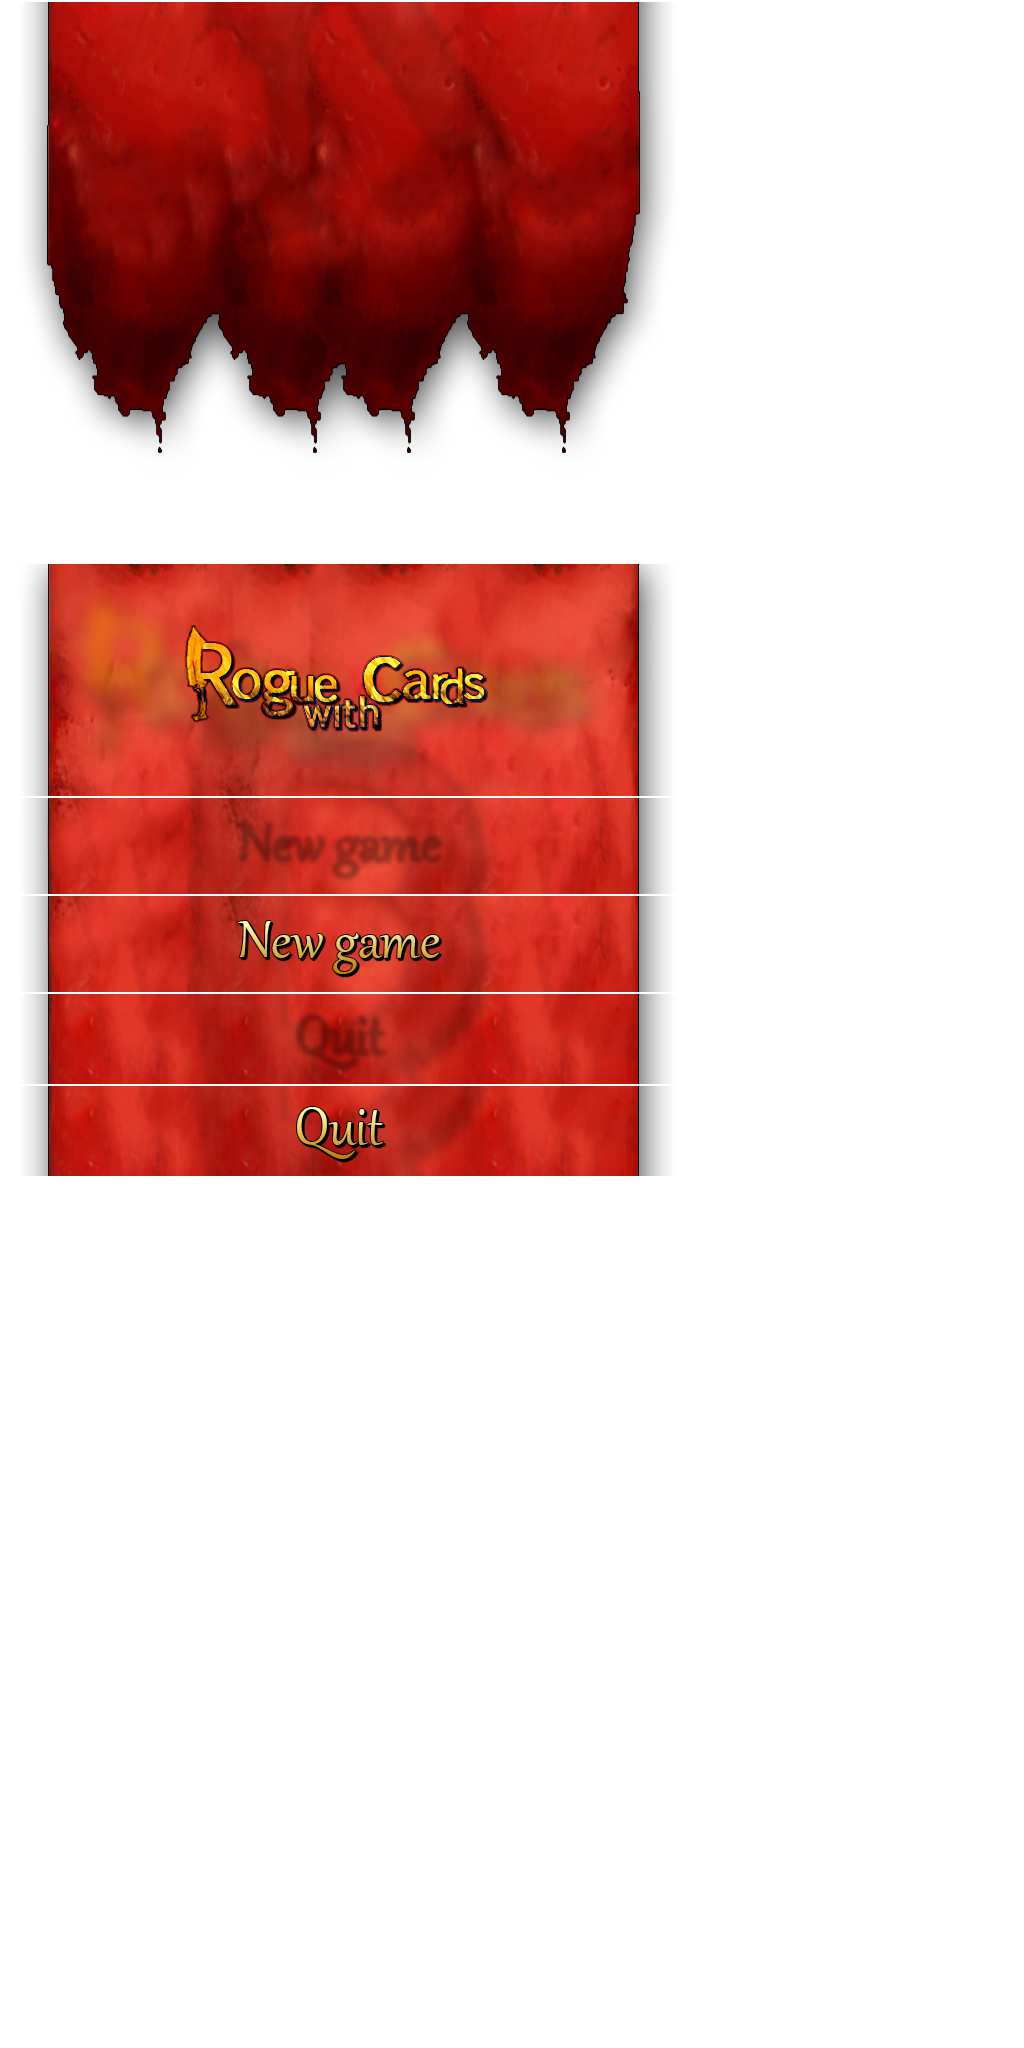
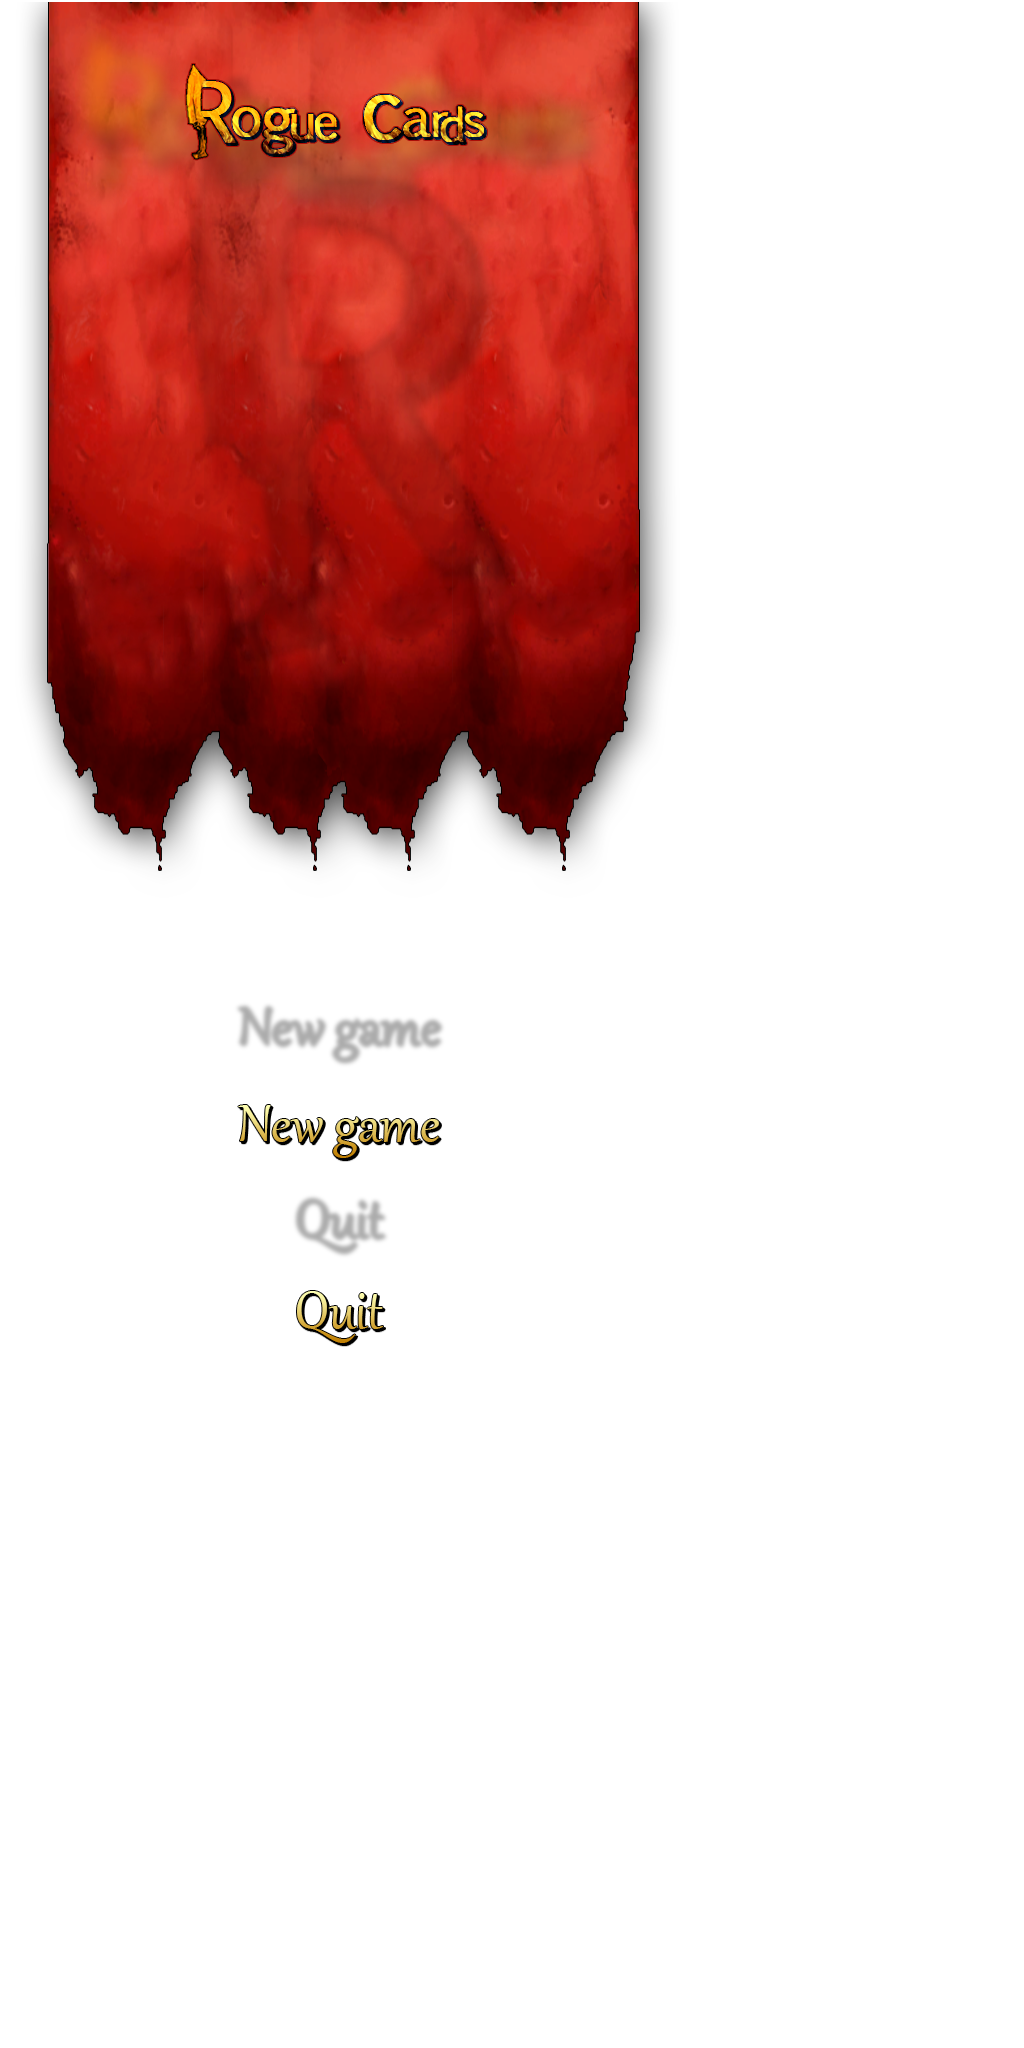
gui button and fade effect

diff --git a/MonoTopDown/Utils/MouseManager.cs b/MonoTopDown/Utils/MouseManager.cs
@@ -1,0 +1,62 @@
+using System;
+using System.Collections.Generic;
+using System.Diagnostics;
+using System.Linq;
+using System.Text;
+using Microsoft.Xna.Framework;
+using Microsoft.Xna.Framework.Input;
+
+namespace MonoTopDown.Utils
+{
+    [DebuggerDisplay("Mouse -> X:{Position.X}, Y:{Position.Y}")]
+    class MouseManager:GameComponent
+    {
+        public static MouseManager Instance { get; protected set; }
+
+        public MouseManager() : base(Program.Game)
+        {
+            Instance = this;
+            _previousState = default(MouseState);
+        }
+
+        private MouseState _current = default(MouseState);
+        private MouseState CurrentState {
+            get { return _current; }
+            set
+            {
+                Position = new Vector2(value.X, value.Y);
+                Delta = new Vector2(value.X - _previousState.X, value.Y - _previousState.Y);
+
+                IsLeftUp = value.LeftButton == ButtonState.Released 
+                    && _previousState.LeftButton == ButtonState.Pressed;
+                IsRightUp = value.RightButton == ButtonState.Released 
+                    && _previousState.RightButton == ButtonState.Pressed;
+
+                _current = value;
+            }
+        }
+        private MouseState _previousState;
+
+        public override void Update(GameTime gameTime)
+        {
+            base.Update(gameTime);
+
+            _previousState = CurrentState;
+            CurrentState = Mouse.GetState();
+        }
+
+        public static bool IsMouseInRectangle(Vector2 position, Vector2 size)
+        {
+            var mouse = Instance.Position;
+            return mouse.X >= position.X && mouse.Y >= position.Y &&
+                   mouse.X <= position.X + size.X && mouse.Y <= position.Y + size.Y;
+        }
+
+        public Vector2 Position { get; protected set; }
+        public Vector2 Delta { get; protected set; }
+        public bool IsLeftDown { get { return CurrentState.LeftButton == ButtonState.Pressed; } }
+        public bool IsRightDown { get { return CurrentState.RightButton == ButtonState.Pressed; } }
+        public bool IsLeftUp { get; protected set; }
+        public bool IsRightUp { get; protected set; }
+    }
+}

diff --git a/MonoTopDown/GUI/GuiButton.cs b/MonoTopDown/GUI/GuiButton.cs
@@ -1,0 +1,78 @@
+using System;
+using System.Collections.Generic;
+using System.Linq;
+using System.Text;
+using MonoTopDown.Images;
+
+namespace MonoTopDown.GUI
+{
+    class GuiButton: BaseGuiComponent
+    {
+        public DrawTexture HoverTexture { get; set; }
+        public bool FadeEffect { get; set; }
+
+        private float _fadeValue = 0;
+        private int _fadeDirection = 0;
+        private float FadeValue
+        {
+            set
+            {
+                if (value < 0) value = 0;
+                else if (value > 1) value = 1;
+                _fadeValue = value;
+            }
+            get { return _fadeValue; }
+        }
+
+        public GuiButton()
+        {
+            MouseIn += OnMouseIn;
+            MouseOut += OnMouseOut;
+
+            FadeEffect = true;
+            isActive = true;
+        }
+
+        private static void OnMouseOut(object sender, EventArgs args)
+        {
+            var self = sender as GuiButton;
+            if (self == null) return;
+
+            if (self.Texture != null)
+                self.TextureToDraw = self.Texture;
+
+            self._fadeDirection = -1;
+        }
+
+        private static void OnMouseIn(object sender, EventArgs args)
+        {
+            var self = sender as GuiButton;
+            if (self == null) return;
+
+            if (self.HoverTexture != null)
+                self.TextureToDraw = self.HoverTexture;
+
+            self._fadeDirection = 1;
+        }
+
+        public override void Draw(Microsoft.Xna.Framework.GameTime gameTime)
+        {
+            if (!FadeEffect)
+                base.Draw(gameTime);
+            else
+            {
+                if (Texture != null)
+                    Texture.Draw(TopDownGame.SpriteBatch, Position, Overlay * (1 - FadeValue), Layer);
+                if (HoverTexture != null)
+                    HoverTexture.Draw(TopDownGame.SpriteBatch, Position, Overlay * FadeValue, Layer);
+            }
+        }
+
+        public override void Update(Microsoft.Xna.Framework.GameTime gameTime)
+        {
+            base.Update(gameTime);
+
+            if (FadeEffect) FadeValue += 0.0475f * _fadeDirection;
+        }
+    }
+}

diff --git a/MonoTopDown/GUI/BaseGUIComponent.cs b/MonoTopDown/GUI/BaseGUIComponent.cs
@@ -4,16 +4,28 @@ using System.Linq;
 using System.Text;
 using Microsoft.Xna.Framework;
 using MonoTopDown.Images;
+using MonoTopDown.Utils;
 
 namespace MonoTopDown.GUI
 {
     class BaseGuiComponent:DrawableGameComponent
     {
         public DrawTexture Texture { get; set; }
+        protected DrawTexture TextureToDraw { get; set; }
         public Color Overlay { get; set; }
         public float Layer { get; set; }
 
         public Vector2 Position { get; set; }
+        public Vector2 Size { 
+            get { return Texture == null ? Vector2.Zero : Texture.Size; }
+        }
+
+        protected bool isActive = false;
+
+        private bool _isMouseIn = false;
+        protected event EventHandler MouseIn;
+        protected event EventHandler MouseOut;
+        public event EventHandler MouseLeftClick;
 
         public BaseGuiComponent() : base(Program.Game)
         {
@@ -22,8 +34,34 @@ namespace MonoTopDown.GUI
 
         public override void Draw(GameTime gameTime)
         {
-            if (Texture != null)
-                Texture.Draw(TopDownGame.SpriteBatch, Position, Overlay, Layer);
+            if (TextureToDraw != null)
+                TextureToDraw.Draw(TopDownGame.SpriteBatch, Position, Overlay, Layer);
+        }
+
+        public override void Update(GameTime gameTime)
+        {
+            var mouse = MouseManager.Instance;
+            base.Update(gameTime);
+
+            if (isActive)
+            {
+                if (MouseManager.IsMouseInRectangle(Position, Size))
+                {
+                    if (!_isMouseIn && MouseIn != null) MouseIn(this, null);
+                    _isMouseIn = true;
+
+                    if (mouse.IsLeftUp && MouseLeftClick != null) 
+                        MouseLeftClick(this, null);
+                }
+                else
+                {
+                    if (_isMouseIn && MouseOut != null) MouseOut(this, null);
+                    _isMouseIn = false;
+                }
+            }
+
+            if (TextureToDraw == null && Texture != null)
+                TextureToDraw = Texture;
         }
     }
 }

diff --git a/MonoTopDown/Scenes/MenuScene.cs b/MonoTopDown/Scenes/MenuScene.cs
@@ -18,13 +18,26 @@ namespace MonoTopDown.Scenes
             Components.Add(new StaticBackground()
                 {Texture = new DrawTexture(ImagesManager.GetTexture("mainmenu"))});
 
-            Components.Add(new BaseGuiComponent(){Texture = new DrawTexture(ImagesManager.GetTexture("menu"), "logo")});
-        }
+            var center = Utils.Viewport.GetViewportCenter();
 
-        /*public override void Draw(Microsoft.Xna.Framework.GameTime time)
-        {
-            var texture = new DrawTexture(ImagesManager.GetTexture("image"), "default");
-            texture.Draw(spriteBatch, Vector2.Zero, Color.White, 0f);
-        }*/
+            var logo = new BaseGuiComponent();
+            logo.Texture = new DrawTexture(ImagesManager.GetTexture("menu"), "logo");
+            var left = center.X - logo.Texture.Size.X*0.5f;
+            logo.Position = new Vector2(left, logo.Position.Y);
+            Components.Add(logo);
+
+            var newGameButton = new GuiButton();
+            newGameButton.Texture = new DrawTexture(ImagesManager.GetTexture("menu"), "newgame0");
+            newGameButton.HoverTexture = new DrawTexture(ImagesManager.GetTexture("menu"), "newgame1");
+            newGameButton.Position = new Vector2(left, 300);
+            Components.Add(newGameButton);
+
+            var quitButton = new GuiButton();
+            quitButton.Texture = new DrawTexture(ImagesManager.GetTexture("menu"), "quit0");
+            quitButton.HoverTexture = new DrawTexture(ImagesManager.GetTexture("menu"), "quit1");
+            quitButton.Position = new Vector2(left, newGameButton.Texture.Size.Y + newGameButton.Position.Y);
+            quitButton.MouseLeftClick += (sender, args) => Program.Game.Exit();
+            Components.Add(quitButton);
+        }
     }
 }

diff --git a/MonoTopDown/Model/ImageFrame.cs b/MonoTopDown/Model/ImageFrame.cs
@@ -12,22 +12,13 @@ namespace MonoTopDown.Model
     [JsonObject(MemberSerialization.OptIn)]
     class ImageFrame
     {
-        private string _filename = "";
+        public ImageFrame()
+        {
+            Filename = "";
+        }
 
         [JsonProperty("filename", Required = Required.Always)]
-        public string Filename {
-            get { return _filename; }
-            set
-            {
-                var s = value;
-                /*if (!string.IsNullOrWhiteSpace(s))
-                {
-                    foreach (var ext in Resources.ImageExtensions)
-                        s = s.Replace(ext, "");
-                }*/
-                _filename = s;
-            }
-        }
+        public string Filename { get; set; }
 
         [JsonProperty("frame", Required = Required.Always)]
         private InternalFrame Frame { get; set; }

diff --git a/MonoTopDown/Scenes/SceneManager.cs b/MonoTopDown/Scenes/SceneManager.cs
@@ -5,6 +5,7 @@ using System.Text;
 using Microsoft.Xna.Framework;
 using Microsoft.Xna.Framework.Graphics;
 using MonoTopDown.GUI;
+using MonoTopDown.Utils;
 
 namespace MonoTopDown.Scenes
 {
@@ -26,6 +27,7 @@ namespace MonoTopDown.Scenes
         protected SceneManager()
         {
             _components.Add(new MouseCursor(game));
+            _components.Add(new MouseManager());
         }
 
         public static void Add(BaseScene scene)

diff --git a/MonoTopDown/Images/DrawTexture.cs b/MonoTopDown/Images/DrawTexture.cs
@@ -14,6 +14,11 @@ namespace MonoTopDown.Images
         public Rectangle Source { get; set; }
         public Vector2 Origin { get; set; }
 
+        public Vector2 Size
+        {
+            get { return new Vector2(Source.Width * Scale.X, Source.Height * Scale.Y); }
+        }
+
         public void Draw(SpriteBatch batch, Vector2 position, Color overlay, float layer)
         {
             batch.Draw(Texture, 
